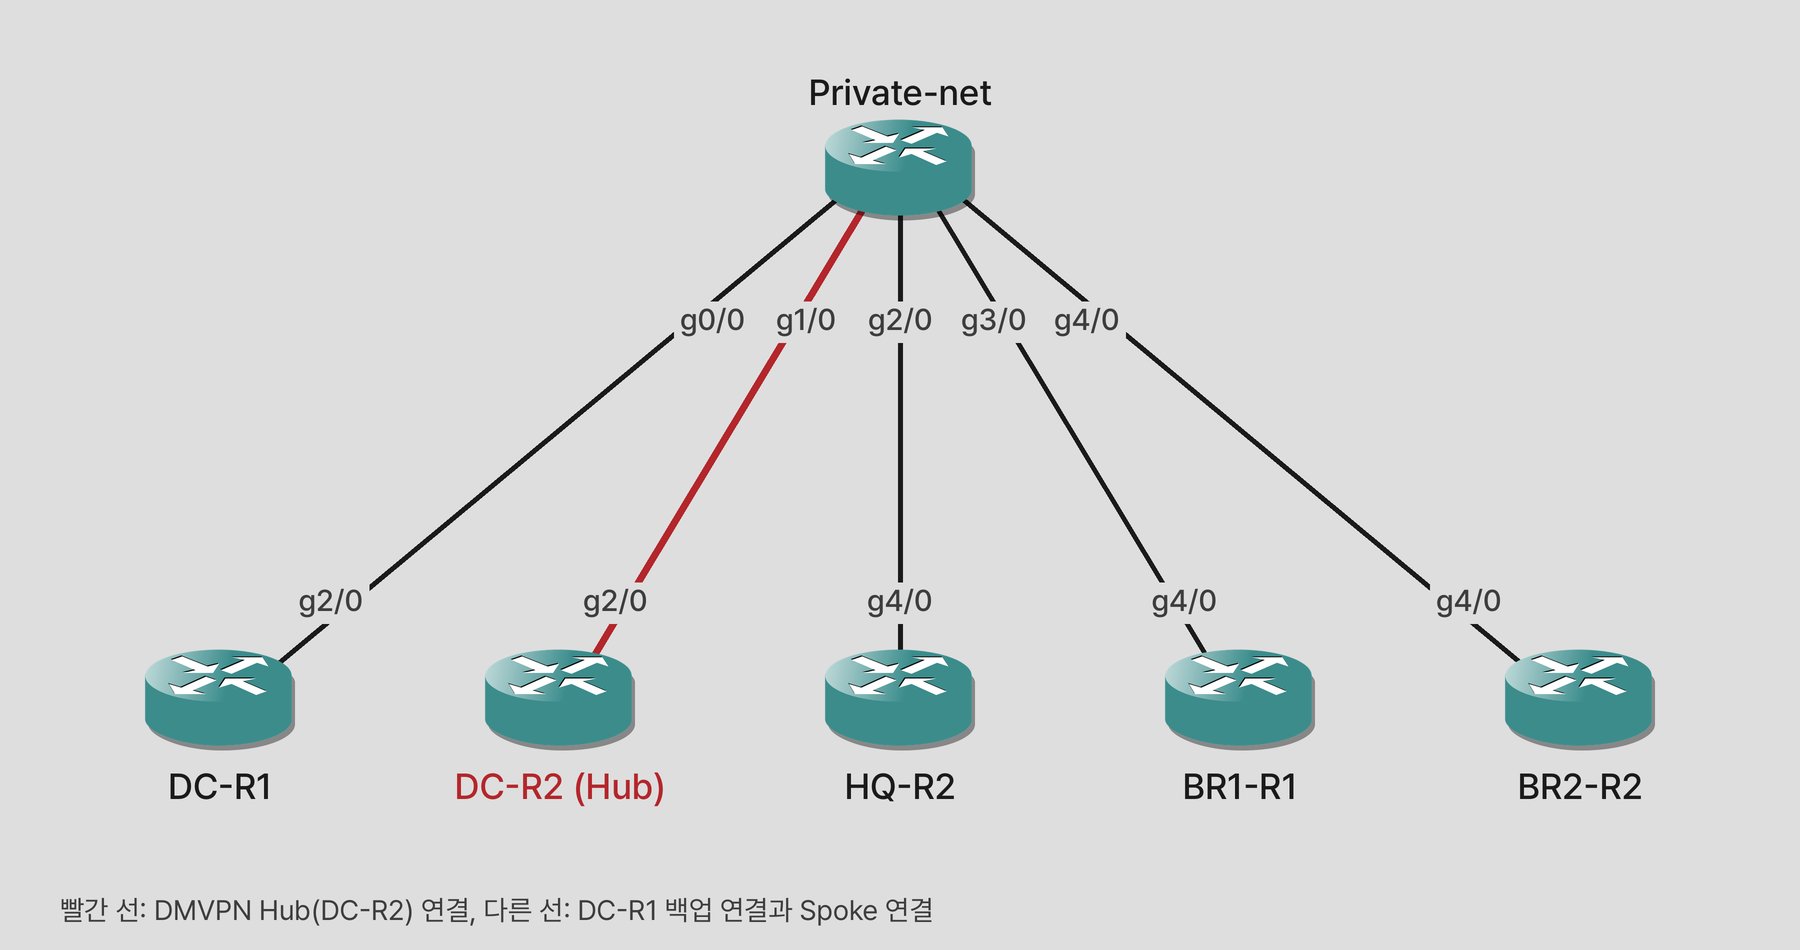
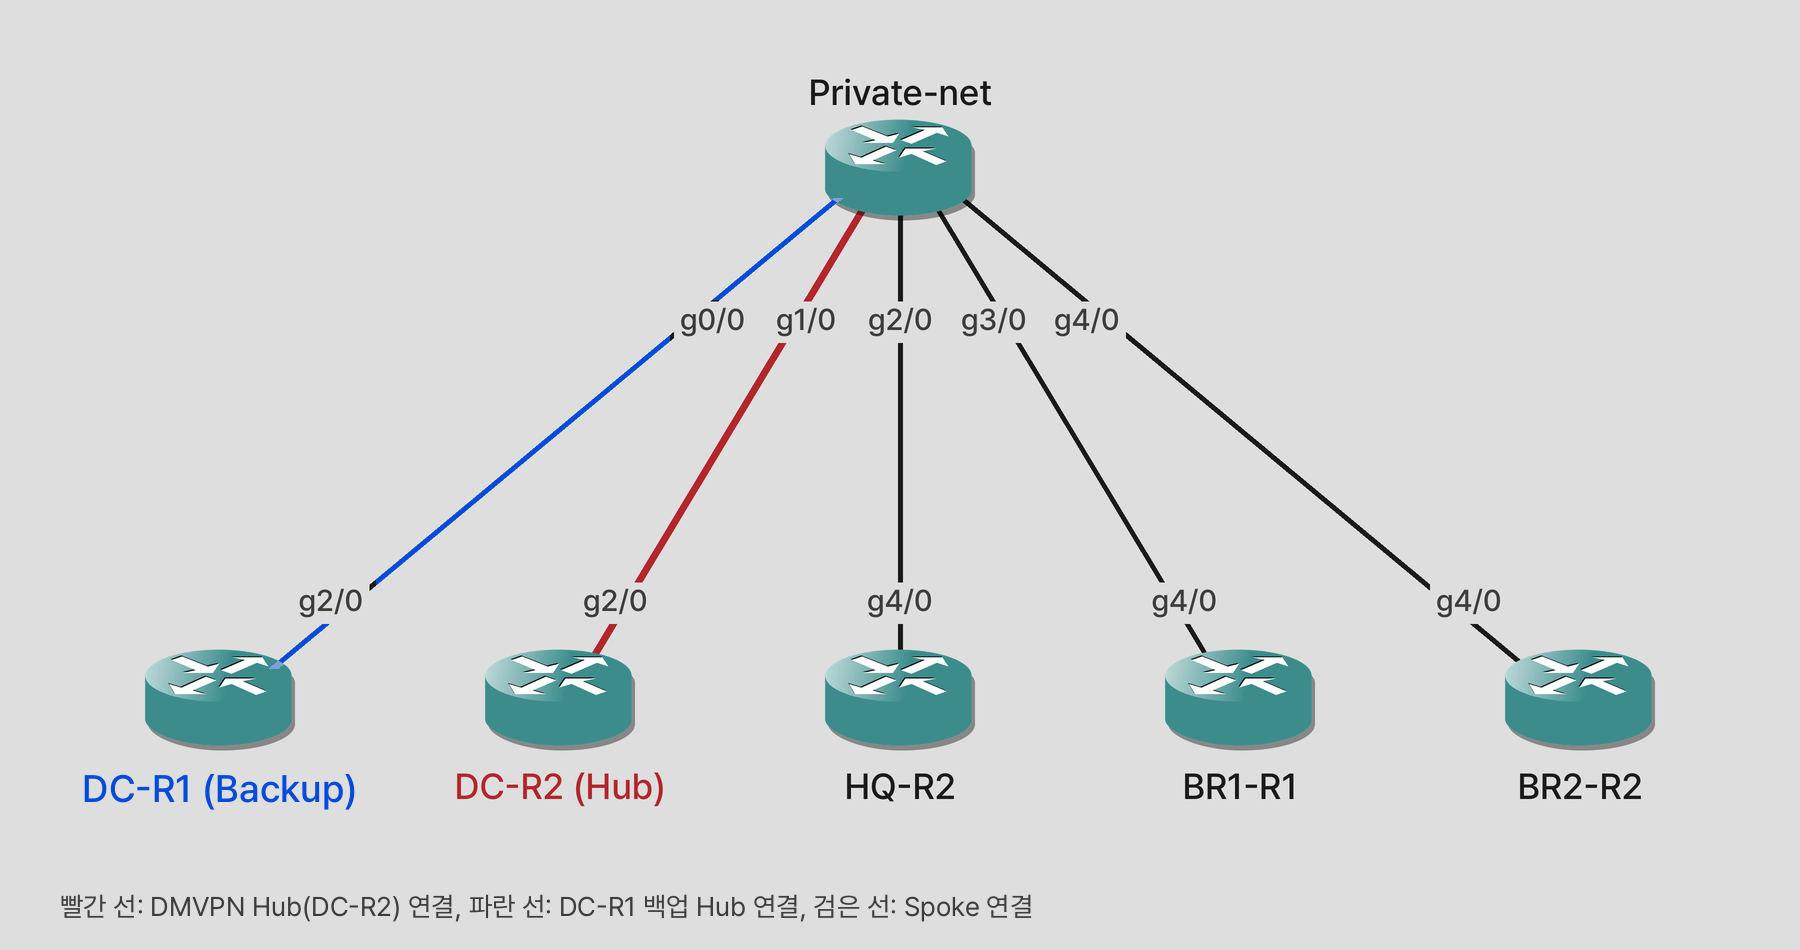
DC-R1 백업 Hub와 일정(실제 2주)을 문서에 반영, DMVPN 토폴로지와 BR1 호스트 링크 VLAN 캡처 갱신

diff --git a/verification/summary.md b/verification/summary.md
@@ -8,12 +8,13 @@
 |---|---|---|---|
 | VRRP 전환 | HQ(Cisco) | 장비 로그 기준 약 0.19초(Master → Init 00:13:56.227, Backup → Master 00:13:56.415), `ping` 손실 1개. 두 장비 시계 일치는 미확인 | [vrrp-failover](scenarios/vrrp-failover.md) |
 | VRRP 전환 | DC(Arista) | Wireshark 광고 공백 약 3.2초, `ping` 손실 5개 | [vrrp-failover](scenarios/vrrp-failover.md) |
-| VRRP 전환 | BR1(Aruba) | Wireshark 광고 공백 약 4.0초(`ping` 손실은 복구 구간 포함 값이라 제외) | [vrrp-failover](scenarios/vrrp-failover.md) |
+| VRRP 전환 | BR1(Aruba) | Wireshark 광고 공백 약 4.0초(1차 3.97초, 2차 4.00초로 재현, `ping` 손실은 복구 구간 포함 값이라 제외) | [vrrp-failover](scenarios/vrrp-failover.md) |
 | EtherChannel 링크 다운 | HQ Po1 | 손실 1개 | [etherchannel-link-down](scenarios/etherchannel-link-down.md) |
 | EtherChannel 링크 다운 | BR1 LAG 1(Aruba) | 손실 5개, 최대 응답 5015 ms | [etherchannel-link-down](scenarios/etherchannel-link-down.md) |
 | MLAG 링크 다운 | DC | 손실 1개, 복구 후 Active-full 2 | [etherchannel-link-down](scenarios/etherchannel-link-down.md), [mlag](dc/distribution/mlag.md) |
 | ISP-1 장애 | HQ-R1 ↔ ISP-1-PE-A | BGP hold-time 9초, 마지막 Keepalive 후 약 9.7초에 `NOTIFICATION`. 기본 경로는 ISP-2 쪽 OSPF E1 metric 201로 전환, 복구 후 세션 수립 약 1.6초 | [isp1-failure](scenarios/isp1-failure.md) |
 | DMVPN Hub 장애 | DC-R2 `tunnel 0` | Hub 중단 약 105초. shortcut ESP는 약 44초 유지 뒤 ISP(MPLS) 경로로 우회(TTL 60 → 57). `ping` 294개 모두 응답 | [dmvpn-hub-failure](scenarios/dmvpn-hub-failure.md) |
+| DMVPN Hub 이중화(DC-R1 백업 Hub) | DC-R2 `tunnel 0` | 평상시 `172.16.0.1` 경유, shutdown 후 `172.16.0.2`(DC-R1) 경유로 전환(HQ-PC1 → `10.10.10.13`, 5홉 유지). `ping` 44개 중 38개 응답(손실 6개), 복구 후 `172.16.0.1` 복귀 | [dmvpn-hub-failure](scenarios/dmvpn-hub-failure.md) |
 
 ## 서비스 품질과 서비스 동작
 
@@ -21,7 +22,7 @@
 |---|---|---|
 | QoS | DNS를 ACL로 분류해 `cm-business`에 af31 표시. 병목 시 `class-default`만 drop(578 → 1333), `cm-business` drop 0 | [qos-verification](scenarios/qos-verification.md) |
 | DHCP(HQ·BR2 Cisco, BR1 Aruba) | DORA 4단계 확인. 두 서버가 모두 Offer를 보내고 먼저 도착한 Offer로 임대(HQ, BR1은 SW-1, BR2는 SW-2). BR1(Aruba)은 VIP 출발지 Offer까지 3개 관찰. lease 86400 | [HQ](hq/distribution/dhcp.md), [BR1](br1/distribution/dhcp.md), [BR2](br2/distribution/dhcp.md) |
-| DNS(BR1-PC1 → DC-DNS-1) | DHCP로 받은 주소로 질의, A 질의에 `dc-r1.lab.local` → `10.10.10.1` 응답(약 5.9ms, 반복 시 0.3ms) | [dns](dc/host/dns.md) |
+| DNS(BR1-PC1 → DC-DNS-1) | DHCP로 받은 주소로 질의, A 질의에 `dc-r1.lab.local` → `10.10.10.1` 응답(첫 질의 약 30ms, 반복 질의 0.19 ~ 0.53ms) | [dns](dc/host/dns.md) |
 | MPLS 레이블 | Hub 장애로 ISP 경유 시 `12004`(LDP) + `14007`(VPN) 두 레이블, PHP로 마지막 홉 전 바깥 레이블 제거 | [mpls-label-path](scenarios/mpls-label-path.md) |
 
 ## 프로토콜 패킷 캡처(Wireshark)

diff --git a/README.md b/README.md
@@ -18,7 +18,7 @@
 | 장비 구성 | HQ (HQ-R1·HQ-R2, HQ-SW-1 – HQ-SW-3), DC (DC-R1 – DC-R4, DC-SW1 – DC-SW4-L3, DC-SW1·2-L2, DC-DNS-1·DC-DNS-2), BR1 (BR1-R1·R2, BR1-SW1 ~ SW3-L3, Aruba CX), BR2 (BR2-R1·R2, BR2-SW1·SW2-L3, BR2-SW3-L2), 호스트 H1·H2, ISP-1·ISP-2 (ISP-n-PE-A·P1·P2·PE-B 각 4대), Private Internet (Private-net) |
 | 핵심 기술 | 사이트 OSPF, ISP iBGP Route Reflector(ISP-1 AS 65100, ISP-2 AS 65200), ISP 코어 MPLS L3VPN(LDP, VRF, vpnv4), 사이트 엣지 eBGP(route-map, prefix-list) + OSPF 기본 경로 광고, DMVPN Phase3, IPsec, VRRP, MSTP, EtherChannel, QoS, ACL 화이트리스트 |
 | 시뮬레이터 | GNS3 (Cisco 7200 / IOU, Arista vEOS-lab, Aruba AOS-CX) |
-| 일정 | 3.5주(2026-10-12 ~ 11-04), 1인 체제 (남기석) |
+| 일정 | 실제 2주(2026-10-12 ~ 10-23, 평일 10일), 계획 3.5주(~11-04) 대비 단축, 1인 체제 (남기석) |
 | 검증 | 이중화 장애 실측 (FHRP, EtherChannel, ISP 장애, DMVPN Hub 장애), 트러블슈팅 로그 |
 
 ---
@@ -127,7 +127,7 @@ network-project/
 | 사이트 | AS | 대역 | 비고 |
 | --- | --- | --- | --- |
 | HQ | 65001 | 10.1.0.0/16 | OSPF 프로세스 11 Area 1, DMVPN Spoke (HQ-R2) |
-| DC | 65002 | 10.2.0.0/16 | OSPF 프로세스 10 Area 0, DMVPN Hub (DC-R2) |
+| DC | 65002 | 10.2.0.0/16 | OSPF 프로세스 10 Area 0, DMVPN Hub (DC-R2), 백업 Hub (DC-R1) |
 | BR1 | 65003 | 10.3.0.0/16 | OSPF 프로세스 12 Area 2, DMVPN Spoke (BR1-R1) |
 | BR2 | 65004 | 10.4.0.0/16 | OSPF 프로세스 13 Area 3, DMVPN Spoke (BR2-R2) |
 | ISP-1 | 65100 | 100.1.0.0/16 | iBGP (P1, P2 Route Reflector / PE-A, PE-B Client) + ISP 내부 OSPF |
@@ -149,6 +149,7 @@ network-project/
 | 장비 | Tunnel0 | NBMA (source) | 역할 |
 | --- | --- | --- | --- |
 | DC-R2 | 172.16.0.1/24 | 203.0.113.5 | Hub, priority 255, mGRE over IPsec |
+| DC-R1 | 172.16.0.2/24 | 203.0.113.1 | 백업 Hub, priority 200, DC 내부 링크 `ip ospf cost 100` |
 | HQ R2 | 172.16.0.13/24 | 203.0.113.9 | Spoke, priority 0, shortcut |
 | BR1 R1 | 172.16.0.11/24 | 203.0.113.13 | Spoke, priority 0, shortcut |
 | BR2 R2 | 172.16.0.12/24 | 203.0.113.17 | Spoke, priority 0, shortcut |

diff --git a/docs/network-project-final.md b/docs/network-project-final.md
@@ -27,7 +27,7 @@ DC ←── DMVPN Phase3(mGRE over IPsec, Private Internet 경유) ──→ HQ
 | 사이트 | AS | 대역 | 비고 |
 |---|---|---|---|
 | HQ | 65001 | 10.1.0.0/16 | OSPF 프로세스11 Area1, DMVPN Spoke(HQ-R2) |
-| DC | 65002 | 10.2.0.0/16 | OSPF 프로세스10 Area0, DMVPN Hub(DC-R2) |
+| DC | 65002 | 10.2.0.0/16 | OSPF 프로세스10 Area0, DMVPN Hub(DC-R2), 백업 Hub(DC-R1) |
 | BR1 | 65003 | 10.3.0.0/16 | OSPF 프로세스12 Area2, DMVPN Spoke(BR1-R1) |
 | BR2 | 65004 | 10.4.0.0/16 | OSPF 프로세스13 Area3, DMVPN Spoke(BR2-R2) |
 | ISP-1 | 65100 (P1, P2 RR / PE-A, PE-B Client) | 100.1.0.0/16 | iBGP RR + ISP 내부 OSPF |
@@ -173,6 +173,7 @@ DC ←── DMVPN Phase3(mGRE over IPsec, Private Internet 경유) ──→ HQ
 | 장비 | Tunnel0 | NBMA(source) | 역할 |
 |---|---|---|---|
 | DC-R2 | 172.16.0.1/24 | 203.0.113.5 | Hub, priority 255, mGRE over IPsec transport |
+| DC-R1 | 172.16.0.2/24 | 203.0.113.1 | 백업 Hub, priority 200(2026-10-19 추가, `docs/dmvpn-design.md` 7절) |
 | HQ-R2 | 172.16.0.13/24 | 203.0.113.9 | Spoke, priority 0, shortcut |
 | BR1-R1 | 172.16.0.11/24 | 203.0.113.13 | Spoke, priority 0, shortcut |
 | BR2-R2 | 172.16.0.12/24 | 203.0.113.17 | Spoke, priority 0, shortcut |
@@ -192,7 +193,7 @@ DC ←── DMVPN Phase3(mGRE over IPsec, Private Internet 경유) ──→ HQ
 ### 접근 통제
 - DC VLAN50(DC-DNS-1, DC-DNS-2): 각 사이트 → UDP/TCP 53만 허용, 그 외 차단. 적용 위치는 DC-R1~R4의 Gi0/0, Gi1/0 출력 방향(cEOS는 인터페이스 ACL 미지원). DHCP는 각 사이트 게이트웨이에서 제공하므로 서버 VLAN으로 DHCP(UDP 67/68) 허용 없음.
 
-## 6. 빌드 순서 (3.5주, 1인 체제)
+## 6. 빌드 순서 (계획 3.5주, 실제 2주, 1인 체제)
 
 기간: 2026-10-12(월) ~ 2026-11-04(수, 반일). 일별 목표는 `docs/schedule.md` 참고.
 

diff --git a/verification/br1/distribution/vlan-trunk.md b/verification/br1/distribution/vlan-trunk.md
@@ -39,7 +39,7 @@ BR1-SW2-L3 VLAN
 |---|---|---|
 | 트렁크 | `vlan.id == 10` | VLAN 10 프레임 8402개(전체 20354개 중). `802.1Q Virtual LAN, PRI: 0, DEI: 0, ID: 10`(`10.3.10.2`의 ARP Announcement, VRRP `10.3.10.2` 광고, `10.3.10.217`(PC)와의 ARP 요청·응답) |
 | 트렁크 | `vlan.id == 20` | VLAN 20 프레임 6509개(전체 22634개 중). `ID: 20`(`10.3.20.x` ARP, VRRP `10.3.20.2` 광고, VRID `0x14`) |
-| 호스트(access) | `vlan` | 154개 캡처 중 **표시 0개**. access 포트가 태그를 제거해 호스트 쪽에는 태그가 없음 |
+| 호스트(access) | `vlan` | 7개 캡처 중 **표시 0개**(2차 캡처, 1차는 154개 중 0개). access 포트가 태그를 제거해 호스트 쪽에는 태그가 없음 |
 
 - 트렁크에서는 VLAN 10, 20이 802.1Q 태그로 구분되고, 호스트 링크에서는 태그가 없는 것으로 트렁크와 access 포트의 동작 차이가 확인됨.
 - 관찰: 트렁크 캡처의 상당수가 ARP Announcement(VRRP VIP `10.3.10.1`, SW-1 `10.3.10.2`, SW-2 `10.3.10.3`)이고 초당 수십 개 이상으로 보임. 원인은 확인하지 못했고, STP는 안정 상태로 확인됨: BR1-SW3-L3 `show spanning-tree`에서 Root가 SW-1(`08:00:09:48:bf:8f`), `1/1/1` Root / Forwarding, 토폴로지 변경 31회에서 더 늘지 않고 마지막 변경이 98초 전(직전 변경은 호스트 포트 `1/1/6`, `1/1/7`의 `shutdown`/`no shutdown` 시험 때문). 따라서 ARP 다수의 원인이 STP 불안정은 아님. SW-2의 `1/1/5` 차단 상태(`show spanning-tree mst`)는 별도 확인 필요.

diff --git a/docs/schedule.md b/docs/schedule.md
@@ -1,6 +1,6 @@
-# 일정 — 1인 체제, 3.5주
+# 일정 — 1인 체제, 실제 2주(계획 3.5주)
 
-기간: 2026-10-12(월) ~ 2026-11-04(수, 반일). 평일 17.5일이며 6주(30일) 계획을 압축한 일정.
+기간: 최초 계획 2026-10-12(월) ~ 2026-11-04(수, 반일). 실제 진행은 2026-10-12 ~ 10-23(평일 10일, 구성과 검증은 10/18에 완료, 10/19 이후 보강 검증과 PPT)로 계획보다 짧게 마무리. 평일 17.5일이며 6주(30일) 계획을 압축한 일정.
 
 ## 역할 분담
 
